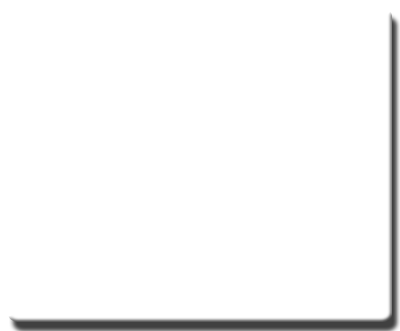
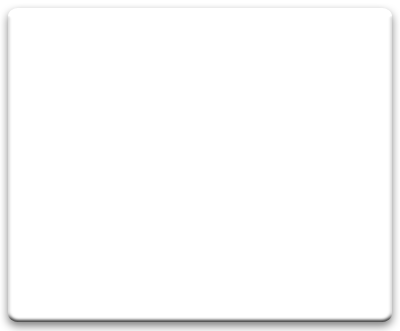
Converting to a darker back-side background.

Changed region(s): [[0.0, 0.0302, 1.0, 1.0]]

diff --git a/library/main.js b/library/main.js
@@ -423,6 +423,7 @@ function showPrefs(event) {
 		
 	front.style.display = "none";
 	back.style.display = "block";
+	document.body.style.backgroundImage = "url(images/Back.png)";
 	
 	if (window.widget)
 		setTimeout ('widget.performTransition();', 0);
@@ -437,6 +438,7 @@ function hidePrefs(event) {
 		
 	front.style.display = "block";
 	back.style.display = "none";
+	document.body.style.backgroundImage = "url(Default.png)";
 	
 	if (window.widget)
 		setTimeout ('widget.performTransition();', 0);

diff --git a/library/style.css b/library/style.css
@@ -1,6 +1,5 @@
 body {
 	background: url(../Default.png) no-repeat top left;
-	/*background-color: #dfd;*/
 	
 	font-family: Lucida Grande, Arial, Helvetica, sans-serif;
 	font-size: 10px;
@@ -52,7 +51,6 @@ body {
     position:absolute;
     right: 20px;
     bottom: 20px;
-    background-color: #aaa;
 }
 
 .flip {
